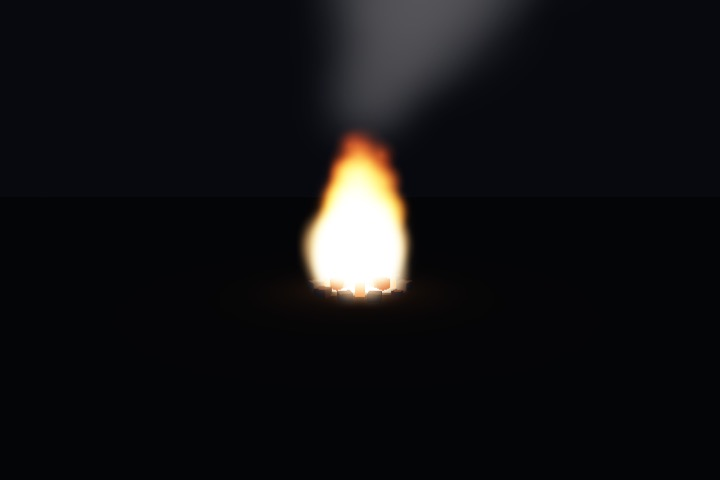
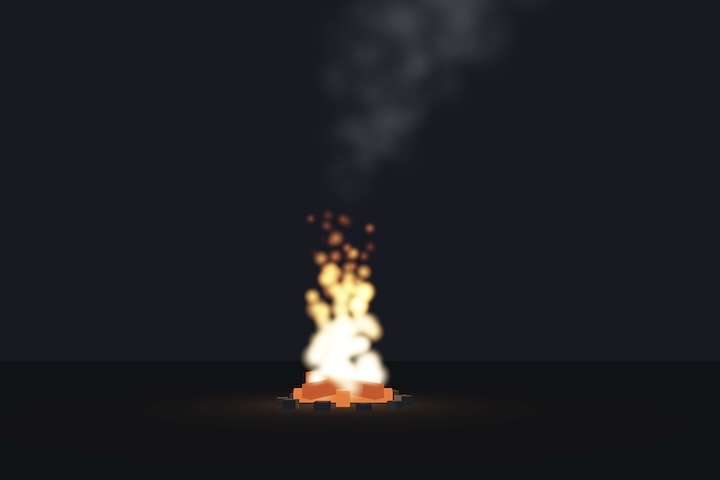
update example parameters

diff --git a/examples/fire.html b/examples/fire.html
@@ -75,15 +75,15 @@
       // Added after the geometry so the depth buffer already holds the scene;
       // the fire shader tests (but doesn't write) depth, so logs occlude embers.
       const fire = new Fire({
-        count: 500,
+        count: 100,
         radius: 0.55,
-        height: 3.2,
-        riseSpeed: 3.4,
+        height: 3.0,
+        riseSpeed: 3.5,
         swayAmp: 0.2,
         swayFreq: 6.5,
         intensity: 3.5,   // HDR over-drive: hot cores blow past 1.0 to feed bloom
-        sizeBase: 30,
-        sizeTip: 10,
+        sizeBase: 50,
+        sizeTip: 20,
       });
       fire.location.y = 0.2;
       scene.add(fire);
@@ -126,7 +126,7 @@
         // lively, restless flame glow. emission scales both the brightness and
         // (through the warm colour) the HDR energy that spills onto the scene,
         // so the ground and stones pulse with the fire.
-        flickerT += 0.05;
+        flickerT += 0.02;
         const flicker = 6.0
           + Math.sin(flickerT * 13.0) * 1.5
           + Math.sin(flickerT * 7.3) * 1.0
@@ -143,8 +143,8 @@
       scene.sun.mat.color = [0.22, 0.26, 0.36];
 
       scene.mainCamera.fieldOfView = 50;
-      scene.mainCamera.location.set(0, 2.6, 7.5);
-      scene.mainCamera.angle.set(-10, 0, 0);
+      scene.mainCamera.location.set(0, 1, 10.5);
+      scene.mainCamera.angle.set(12, 0, 0);
 
       const controller = new TouchController(scene);
 

diff --git a/examples/hdri.html b/examples/hdri.html
@@ -27,7 +27,7 @@
       // panorama. HDRSkyBox decodes it to linear float, projects it into a
       // mipmapped HDR cubemap, and (with enableEnvmap) the renderer bakes a
       // diffuse irradiance map + uses the cube for specular reflections.
-      const sky = new HDRSkyBox(renderer, "/textures/hdr/kloppenheim_02_4k.hdr", {
+      const sky = new HDRSkyBox(renderer, "/textures/hdr/kloppenheim_06_puresky_4k.hdr", {
         faceSize: 1024,
       });
       scene.skybox = sky;
@@ -60,15 +60,6 @@
           grid.add(sphere);
         }
       }
-
-      // ---- textured glTF model under the same HDRI lighting ----
-      scene.createObjectFromURL("/models/WaterBottle/WaterBottle.gltf", obj => {
-        if (!obj) return;
-        obj.location.set(-2.1, -0.2, 4);
-        obj.angle.set(0, 20, 0);
-        obj.scale.set(11, 11, 11);
-        scene.add(obj);
-      });
 
       scene.sun.location.set(1, 1, 1);
       scene.sun.mat.color = [1.0, 0.98, 0.95];

diff --git a/examples/snow.html b/examples/snow.html
@@ -26,7 +26,7 @@
 
       // ---- a calm snowy ground with a few rounded mounds ----
       const ground = new Shapes.Plane();
-      ground.scale.set(60, 1, 60);
+      ground.scale.set(100, 1, 100);
       ground.mat.color = [0.92, 0.94, 0.97];   // fresh snow
       ground.mat.roughness = 0.95;
       scene.add(ground);
@@ -62,7 +62,7 @@
         swayFreq: 1.0,
         sizeMin: 3,
         sizeMax: 9,
-        color: [1.0, 1.0, 1.0],
+        color: [2.0, 2.0, 2.0],
         opacity: 0.95,
       });
       snow.location.y = 6;   // lift the volume so flakes drift down from above
@@ -79,7 +79,7 @@
       scene.sun.mat.color = [1.0, 1.0, 1.05];
 
       scene.mainCamera.fieldOfView = 50;
-      scene.mainCamera.location.set(0, 5, 26);
+      scene.mainCamera.location.set(0, 1, 0);
       scene.mainCamera.angle.set(-6, 0, 0);
 
       const controller = new TouchController(scene);

diff --git a/examples/waterbottle.html b/examples/waterbottle.html
@@ -43,7 +43,7 @@
       // packed occlusion-roughness-metallic) with a tangent basis.
       scene.createObjectFromURL("/models/WaterBottle/WaterBottle.gltf", obj => {
         if (!obj) return;
-        obj.scale.set(20, 20, 20);   // authored at real-world ~0.2m
+        obj.scale.set(15, 15, 15);   // authored at real-world ~0.2m
         holder.add(obj);
         scene.requireUpdateFrame();
       });
